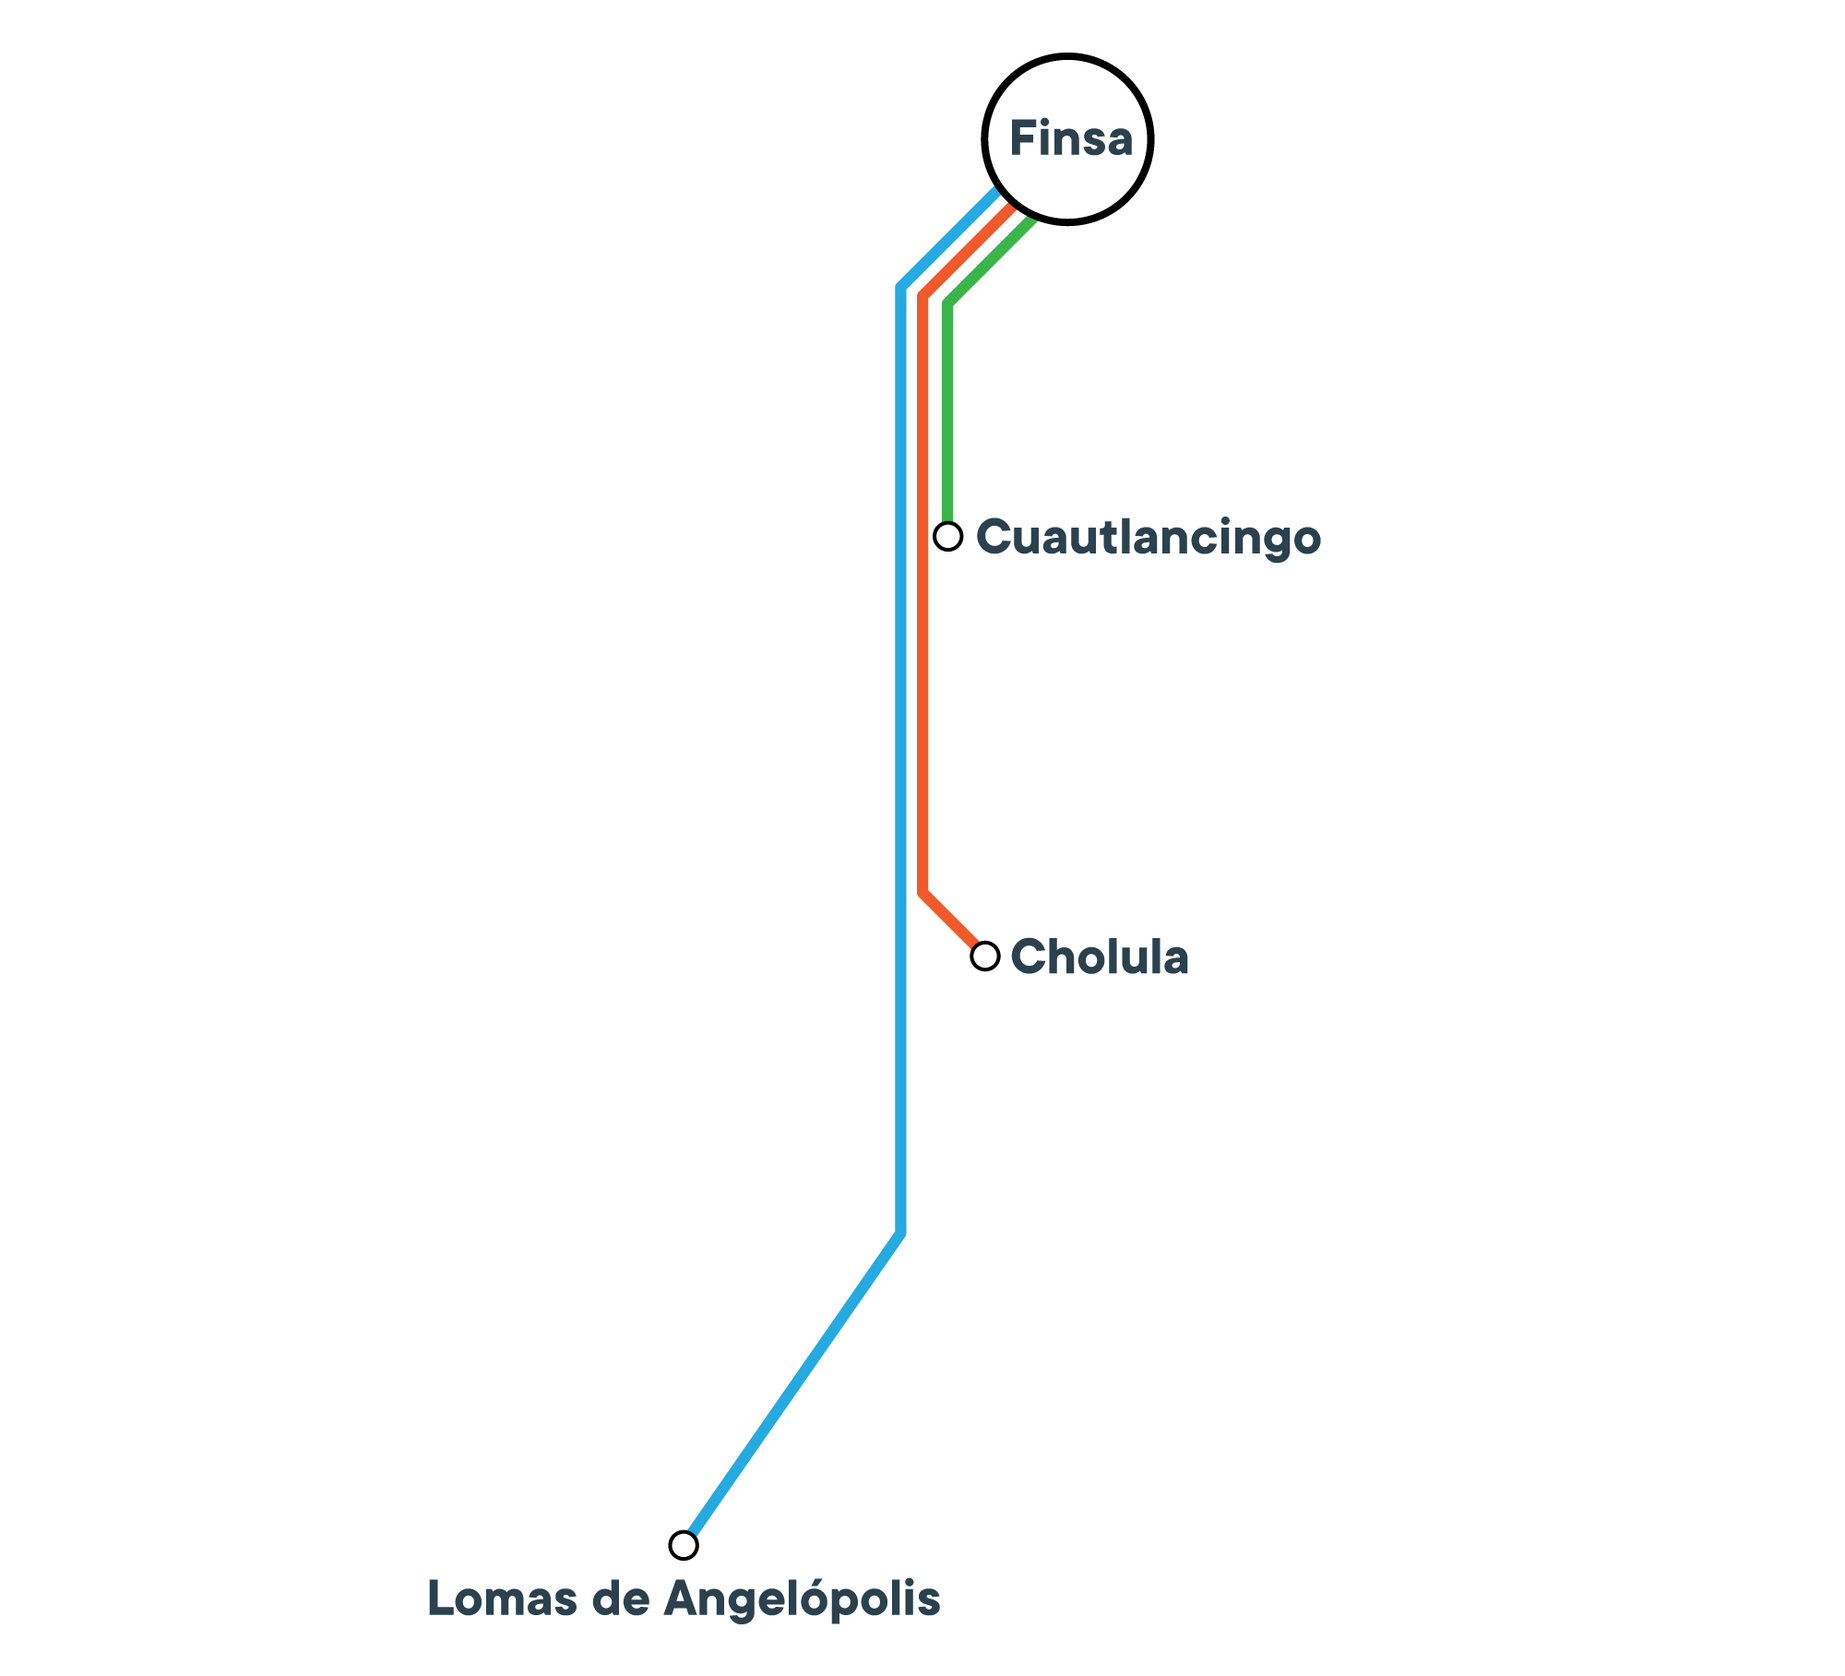
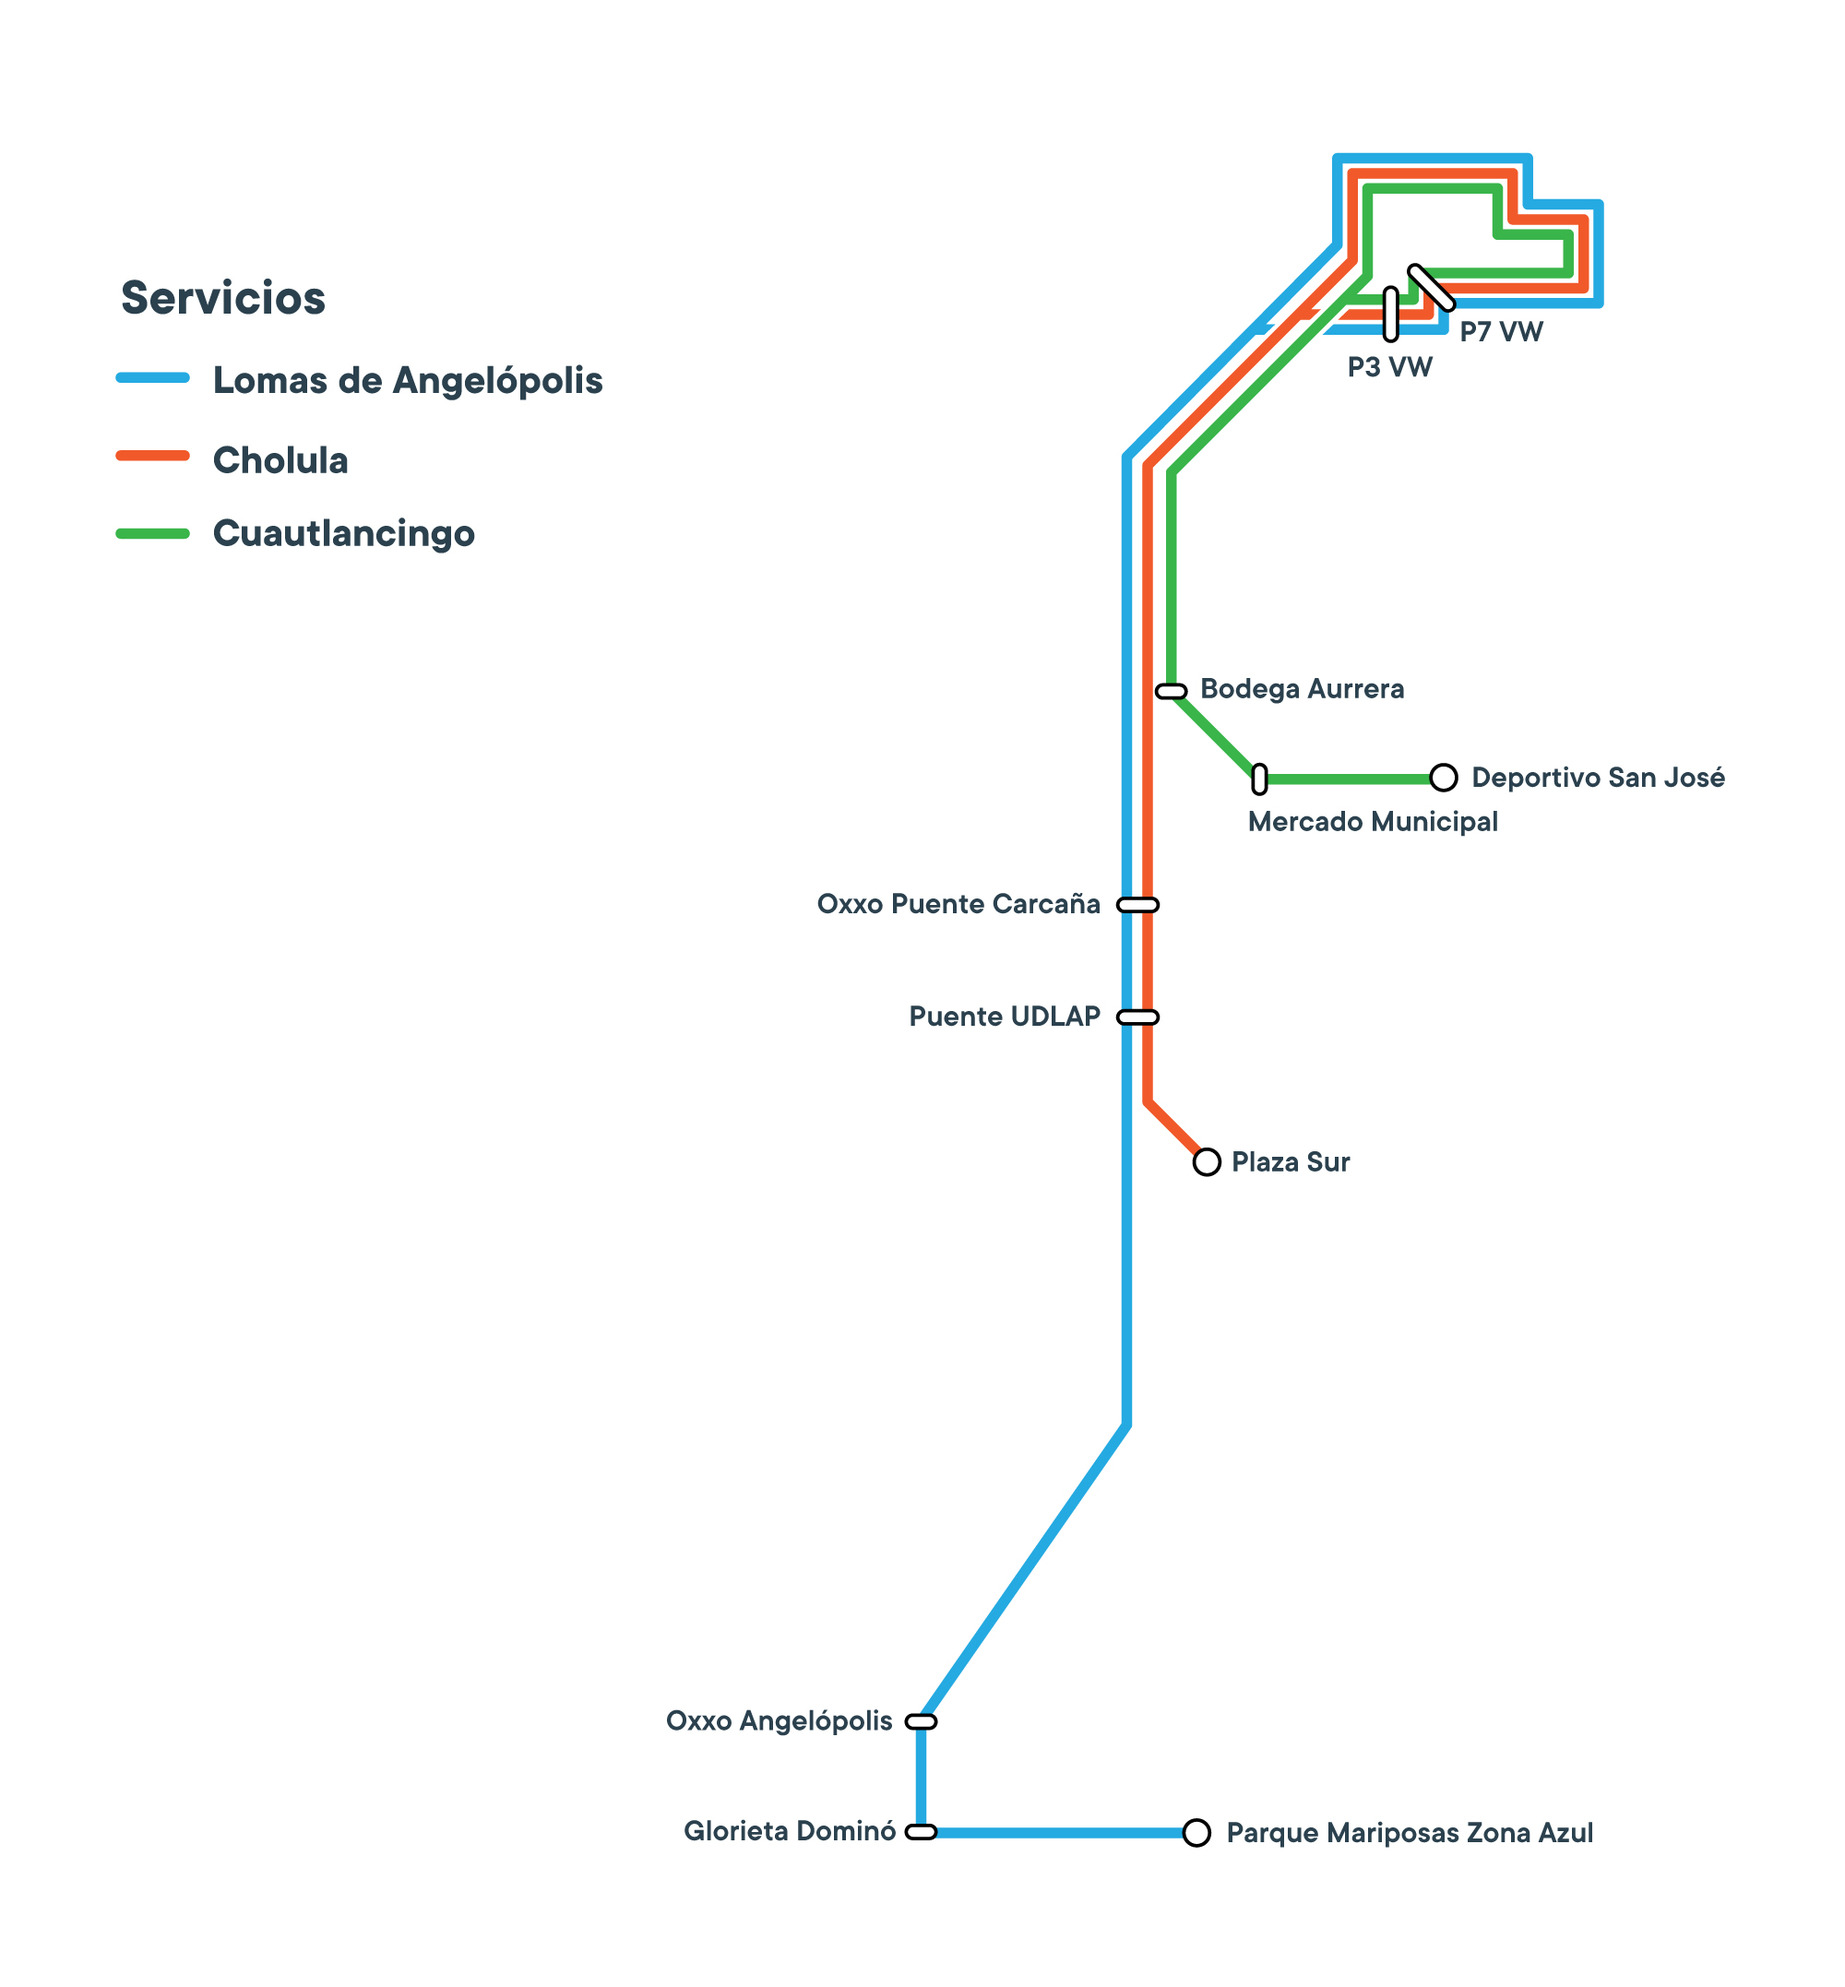
cambios landing puebla

diff --git a/puebla-finsa.md b/puebla-finsa.md
@@ -1,0 +1,25 @@
+---
+layout: default-cobertura
+title: Jetty | Explora Nuestras Rutas
+description: Consulta nuestra cobertura y nuestros horarios de operaciones en la Ciuda de Puebla.
+id: puebla-finsa
+---
+
+<div class="container marginTop">
+  <div class="row">
+
+    <div class="col-md-9 col-md-offset-2">
+      <h1 class="blog-title">De tu casa a tu trabajo, rápido pero no furioso: choferes profesionales</h1>
+      <img src="{{site.baseurl}}/img/beneficios-landing.jpg" width="100%" style="margin-top: 50px;">
+    </div>
+
+    <div class="col-md-12">
+      <img src="{{site.baseurl}}/img/Mapa-Rutas-Puebla-Landing.jpg" width="90%" style="margin-bottom: 20px;">
+    </div>
+
+    <div class="col-md-12 text-center" style="margin-bottom: 100px;">
+      <a href="http://jty.mx/explanadaDiafi" class="btn btn-default btn-green">Reservar viaje</a>
+    </div>
+
+  </div>
+</div>
